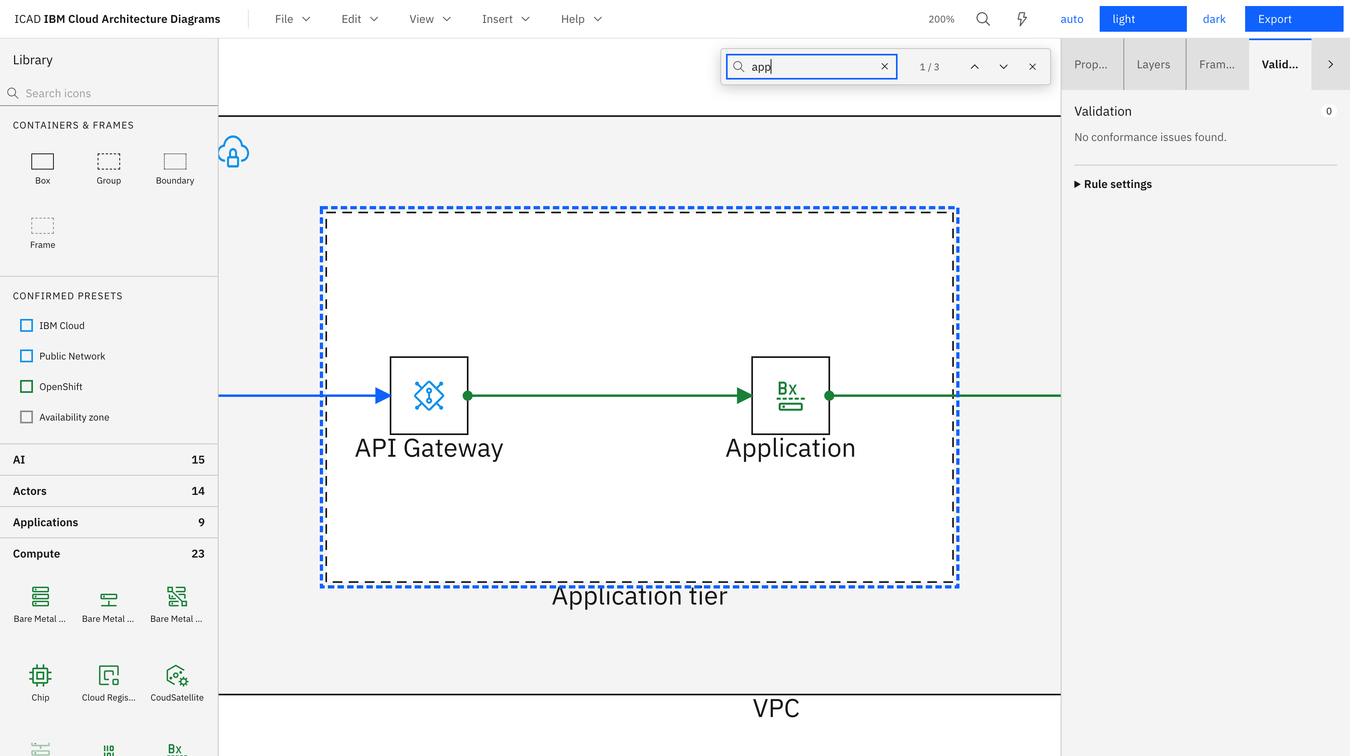
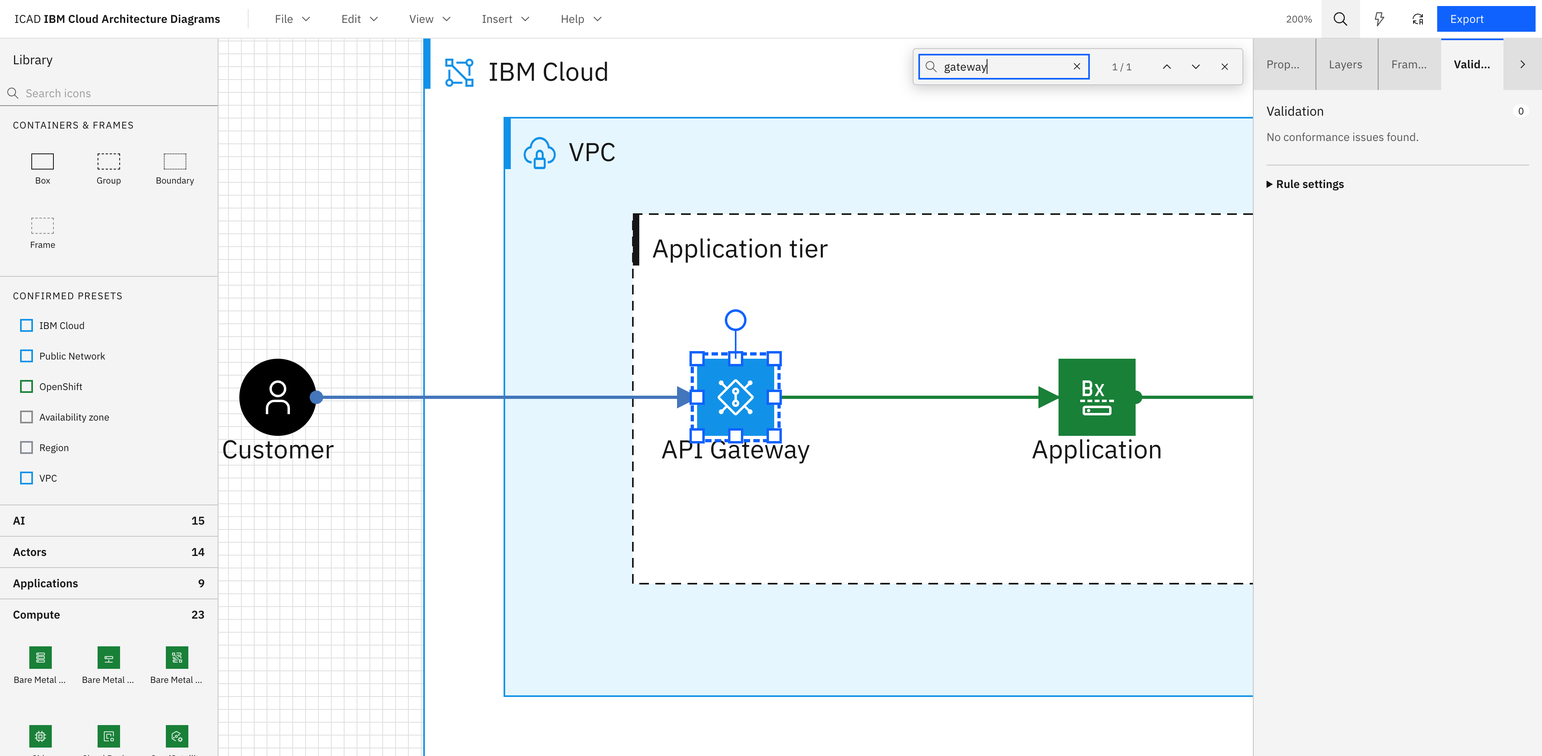
fix: desktop native export (missing fs write permission + CSP), refresh docs/screenshots
apps/desktop/src-tauri/capabilities/default.json was missing fs:allow-write-file
(only the text-file variant was granted), so saveExportNative()'s binary
writeFile() silently failed the Tauri IPC call for every native SVG/PNG export.
tauri.conf.json's CSP img-src also lacked blob:, which independently blocked
PNG export's intermediate <img> load from a blob: object URL. Neither surfaced
in tests since both are Tauri runtime permission/CSP checks a JS-level mock
can't exercise.

Also brings docs current with M15-M21, which had drifted since the last
doc/screenshot pass (2026-07-24, before M15-M20 and M21 shipped):
- docs/09-roadmap.md: records the export-bug fix under M11, and adds the
  M21 (licensing + release packaging) section that was never written up.
- docs/guide/02-web-editor.md: Limitations still claimed no drag/resize/
  rotate, no marquee/align/z-order, and no connector-waypoint editing, all
  of which shipped in M15-M20. Rewrote Canvas interactions, Connectors, and
  Properties to match, and fixed a stale Zone/Boundary semantics row (D24
  narrowed Zone to AZ/on-prem only).
- docs/guide/01-getting-started.md: "VS Code is dev-only" / "desktop is
  build-from-source only" predated the M21 Releases channel.
- Replaced the screenshot set (captured live from the running app) and
  added one new shot for connector-editing; the old set predated M18-M20
  entirely and showed neither rotation, the color picker, lock/hide, nor
  connector editing.
[…]

diff --git a/docs/guide/02-web-editor.md b/docs/guide/02-web-editor.md
@@ -4,12 +4,12 @@ The full reference for `apps/web` — every element type, interaction, panel, an
 actually behave today. Screenshots below are the built-in **High-level / logical** template
 (light theme) at 100% zoom.
 
-![Populated canvas: Customer actor → API Gateway → Application (inside Application tier group, inside VPC box, inside IBM Cloud boundary) → Object storage](images/hero-canvas-overview.png)
+![Populated canvas: Customer actor → API Gateway → Application (inside Application tier group, inside VPC box, inside IBM Cloud box) → Object storage](images/hero-canvas-overview.png)
 
 ## Layout
 
 - **Top bar** — File / Edit / View / Insert / Help menus, a live zoom readout, Find, Command
-  palette, theme buttons (Auto/Light/Dark), and Export.
+  palette, a Theme menu (Auto/Light/Dark), and Export.
 - **Left — Library panel** — searchable IBM icon catalog, plus container primitives and confirmed
   presets.
 - **Center — Canvas** — the SVG diagram surface.
@@ -20,16 +20,16 @@ Library panel, and there's no ruler along the canvas edges.
 
 ## Elements and their IBM semantics
 
-| Element               | Border         | IBM semantic            | Meaning                                                                                                               |
-| --------------------- | -------------- | ----------------------- | --------------------------------------------------------------------------------------------------------------------- |
-| **Box**               | solid          | `deployedOn`            | A location something runs on (a VPC, a server, a cluster).                                                            |
-| **Group**             | dashed         | `deployedTo`            | A grouping of services/apps that share a deployment target.                                                           |
-| **Zone** ("Boundary") | dashed         | `boundary`              | A region, availability zone, VPC, subnet, or on-prem boundary. Set the kind in Properties.                            |
-| **Actor**             | rounded        | `actor`                 | A person or external role.                                                                                            |
-| **Icon** (`iconNode`) | —              | `node`                  | A single IBM Cloud service/component from the catalog.                                                                |
-| **Text**              | —              | —                       | A free-floating label.                                                                                                |
-| **Frame**             | dashed, titled | —                       | A named section used for Find, navigation, and presentation mode — not a diagram element with IBM meaning of its own. |
-| **Connector**         | —              | connection/relationship | See [Connectors](#connectors) below.                                                                                  |
+| Element               | Border         | IBM semantic            | Meaning                                                                                                                                                                                                                                                          |
+| --------------------- | -------------- | ----------------------- | ---------------------------------------------------------------------------------------------------------------------------------------------------------------------------------------------------------------------------------------------------------------- |
+| **Box**               | solid          | `deployedOn`            | A location something runs on (a VPC, a server, a cluster).                                                                                                                                                                                                       |
+| **Group**             | dashed         | `deployedTo`            | A grouping of services/apps that share a deployment target.                                                                                                                                                                                                      |
+| **Zone** ("Boundary") | dashed         | `boundary`              | An availability zone or on-premises boundary — the only two `ZoneKind`s; region/VPC/subnet render as **Box** instead ([D24](../00-decision-log.md#d24--regionvpcsubnet-are-box-only-availability-zoneon-prem-are-boundary--locked)). Set the kind in Properties. |
+| **Actor**             | rounded        | `actor`                 | A person or external role.                                                                                                                                                                                                                                       |
+| **Icon** (`iconNode`) | —              | `node`                  | A single IBM Cloud service/component from the catalog.                                                                                                                                                                                                           |
+| **Text**              | —              | —                       | A free-floating label.                                                                                                                                                                                                                                           |
+| **Frame**             | dashed, titled | —                       | A named section used for Find, navigation, and presentation mode — not a diagram element with IBM meaning of its own.                                                                                                                                            |
+| **Connector**         | —              | connection/relationship | See [Connectors](#connectors) below.                                                                                                                                                                                                                             |
 
 Boxes, Groups, Zones, and Frames are all **containers**: dropping or reparenting an element into
 one sets `parentId`, and moving or deleting the container cascades to everything inside it.
@@ -52,16 +52,40 @@ OpenShift, Availability zone).
 
 ## Canvas interactions
 
-- **Pan** — scroll wheel. **Zoom** — Ctrl/Cmd+scroll, or the Zoom in/out/Reset/Fit-to-content
-  commands in the View menu or command palette.
-- **Select** — click; Shift-click to add to selection; keyboard Enter/Shift+Enter on a focused
-  element.
-- **Move** — arrow keys nudge the selection by 1px (8px with Shift). There's no click-and-drag
-  repositioning; to set an exact position, type X/Y in the Properties tab.
+- **Pan** — scroll wheel, Space+drag, or middle-mouse-drag. **Zoom** — Ctrl/Cmd+scroll, or the Zoom
+  in/out/Reset/Fit-to-content commands in the View menu or command palette. A live grid and
+  alignment guides render while dragging, with a gesture readout (position/size/angle) near the
+  cursor.
+- **Select** — click (always resolves to the deepest element under the cursor); Alt+click to
+  select through to an occluded element underneath; Shift-click to add to selection; a
+  marquee-drag over empty canvas selects every fully-enclosed element; Ctrl/Cmd+A selects all;
+  keyboard Enter/Shift+Enter on a focused element. Right-click opens a context menu scoped to
+  whatever's under the cursor.
+- **Move** — drag with the mouse (Shift axis-locks to horizontal/vertical, Escape aborts and snaps
+  back, Alt-drag clones instead of moving), or arrow keys to nudge the selection by 1px (8px with
+  Shift). Dragging snaps live to the grid, sibling edges/centers, and a 16px container inset. To
+  set an exact position, type X/Y in the Properties tab instead.
+- **Resize** — drag any of 8 handles on a selected element (Shift locks aspect ratio, Alt resizes
+  from center); a container resize reflows its children and the 16px inset is enforced live.
+  Dragging an element onto/out of a container highlights it as a drop target and reparents on
+  release; a container also auto-grows to keep a dragged child inside it.
+- **Rotate** — drag the rotation handle above a selected element; Shift snaps to 15° increments.
+  Hit-testing, handles, ports, and bounds are all rotation-aware.
+- **Double-click** a container to drill into it (both the outer and inner bounding boxes stay
+  visible); Escape steps back out.
+- **Arrange** — Bring to front/forward, Send backward/to back (Ctrl/Cmd+]/[, Shift for
+  front/back), 6-way align (left/center/right/top/middle/bottom) and horizontal/vertical
+  distribute, and per-element Lock/Hide — all in the Edit menu, command palette, or (for
+  align/distribute) a toolbar that appears with a 2+ element selection.
+- **Clipboard** — Ctrl/Cmd+C/X/V copy, cut, and paste; Ctrl/Cmd+D duplicates; paste lands at the
+  cursor position. This is an in-app clipboard for diagram elements, not a copy-to-clipboard for
+  rendered PNG/SVG images (see [Export](#export)).
 - **Group / ungroup** — select 2+ elements and press Ctrl/Cmd+G (or use the Edit menu / command
   palette). This creates a new dashed Group sized to fit the selection plus a 16px pad, and
   reparents the selected elements into it. Ctrl/Cmd+Shift+G ungroups.
-- **Undo / redo** — Ctrl/Cmd+Z / Ctrl/Cmd+Shift+Z (or Ctrl/Cmd+Y), unlimited within a session.
+- **Undo / redo** — Ctrl/Cmd+Z / Ctrl/Cmd+Shift+Z (or Ctrl/Cmd+Y), unlimited within a session. Only
+  committed edits are undoable — in-flight drag/resize/rotate gestures aren't part of the undo
+  stack until released.
 - **Delete** — Delete/Backspace removes the selection and cascades to descendants and any
   connectors left dangling.
 
@@ -79,7 +103,13 @@ private) and **relationships** (dependency, aggregation, composition, implementa
 inheritance). A connection also takes a structured protocol annotation (Name, Encryption/Security,
 Port — rendered as `HTTPS TLS1.3:443`; a tunnel type reads "Encapsulation name" instead), and any
 connector can carry a short sequencing badge (e.g. "1", "2a") shown at its midpoint. Routing is
-orthogonal and automatic; there's no gesture for manually editing a connector's waypoints today.
+orthogonal and automatic by default, but a selected connector exposes diamond drag handles on every
+waypoint, a `+` handle at each segment's midpoint to insert a new one, and pink endpoint handles to
+retarget either end to a different port — auto-routing connectors re-route immediately around the
+edited path. A "Reset routing" button in the Properties tab drops any manual edits and returns to
+automatic routing.
+
+![Connector selected, showing waypoint drag handles, a midpoint insert handle, and an endpoint retarget handle on canvas alongside the connector's type/direction/protocol properties](images/connector-editing.png)
 
 ## Templates
 
@@ -93,16 +123,18 @@ starts clean.
 The right-hand Inspector has four tabs.
 
 **Properties** — edit the selection. Every element has a Label field; non-connector elements also
-get typed X/Y/W/H fields and a Parent container selector; Zones get a boundary-kind selector;
-Frames get a presentation-order field; Connectors get type/direction/flow-color selectors. Fill,
-stroke, and rotation aren't editable here — style comes from presets and linter quick-fixes, and
-rotation isn't implemented in the UI.
+get typed X/Y/W/H and Rotation (0–359°) fields and a Parent container selector; Zones get a
+boundary-kind selector; Frames get a presentation-order field; Connectors get
+type/direction/flow-color selectors. Stroke and fill are set from the nine IBM palette swatches or
+a free-form custom color picker; a Locked/Hidden pair of checkboxes mirrors the same toggles in
+Layers.
 
-![Properties tab showing the selected "Application" icon: label, X/Y/W/H, parent container, and read-only IBM catalog reference](images/properties-tab.png)
+![Properties tab showing the selected "Application" icon: label, X/Y/W/H, a rotation field, parent container, IBM catalog reference, IBM palette stroke/fill swatches with a custom color picker, and Locked/Hidden checkboxes](images/properties-tab.png)
 
-**Layers** — the full containment tree, click any node to select it on canvas.
+**Layers** — the full containment tree in descending z-order, click any node to select it on
+canvas; each row also has its own Lock and Hide toggle.
 
-![Layers tab showing the nested tree: Frame → Boundary → Box → Group → Icons, plus the Actor and three Connectors](images/layers-tab.png)
+![Layers tab showing the nested tree in descending z-order — Frame → Box → Box → Group → Icons, plus the Actor and three Connectors — with per-row lock/hide toggle buttons](images/layers-tab.png)
 
 **Frames** — lists frames in presentation order; a **Present** button steps through them
 (PageUp/PageDown or arrow keys, Escape to exit) — useful for reviews.
@@ -129,11 +161,11 @@ is allowed to block export.
 (`i / N`); Next/Previous step through them and the viewport jumps to each one, including jumping
 straight to a section frame.
 
-![Find bar with "app" typed in, showing 1 of 3 matches and the viewport zoomed to the matching "Application tier" group](images/find-bar-match.png)
+![Find bar with "gateway" typed in, showing 1 of 1 match and the viewport zoomed to the matching "API Gateway" icon](images/find-bar-match.png)
 
 ## Themes
 
-Auto / Light / Dark, set from the top bar, the View menu, or the command palette:
+Auto / Light / Dark, set from the Theme menu in the top bar, the View menu, or the command palette:
 
 ![Command palette open, listing File/View/Insert commands including the three theme options](images/command-palette.png)
 
@@ -168,14 +200,18 @@ details.
 
 ## Limitations
 
-The editor is click-and-type first, not a full drag/direct-manipulation canvas yet:
+Direct manipulation (drag-to-move/resize/rotate, marquee select, align/distribute/z-order, grid
+and alignment-guide snapping, connector-waypoint editing, clipboard copy/paste/duplicate) is fully
+built — see [Canvas interactions](#canvas-interactions) and [Connectors](#connectors) above. What's
+still missing:
 
-- **No drag-to-move, resize, or rotate.** Position and size are set via typed Properties fields;
-  the schema has a `rotation` field but nothing renders or exposes it.
-- **No marquee/rubber-band selection and no Ctrl/Cmd+select-all.** Multi-select is Shift-click
-  only.
-- **No align, distribute, or z-order commands.**
-- **No grid or alignment-guide snapping.** Only connector ports snap.
-- **No manual connector-waypoint editing** — routing is fully automatic.
-- **No clipboard copy** (no copy-to-clipboard for PNG/SVG).
-- **No native drag-and-drop icon placement** — click-to-arm-then-click, or keyboard placement.
+- **No native drag-and-drop icon placement from the Library panel** — click an icon to arm it,
+  then click the canvas (or press Enter/Space to place at the viewport center); dragging an icon
+  straight from the panel onto the canvas isn't supported.
+- **No copy-to-clipboard for a rendered PNG/SVG image.** Export always goes to Save/Save-As (or a
+  browser download); there's no button that puts the exported image bytes on the OS clipboard. (The
+  in-app element clipboard — Ctrl/Cmd+C/X/V/D for diagram elements — is a separate, already-built
+  feature; see [Canvas interactions](#canvas-interactions).)
+- **No viewport virtualization.** Every element stays in the live DOM regardless of diagram size;
+  a benchmark found no real rendering/hit-test/lint problem up to 2,000 elements and connectors, so
+  this hasn't been built, but a genuinely huge diagram beyond that size is untested.

diff --git a/docs/09-roadmap.md b/docs/09-roadmap.md
@@ -596,11 +596,26 @@ Same "core runs in the webview, the host handles file I/O" split as
    — a known limitation of headless macOS (unrelated to anything in this change; unconfirmed
    whether it reproduces on a real CI runner or a human's own machine, both of which typically have
    one).
+10. **Two real defects found by actually using the shipped `v0.1.0` desktop build**, neither caught
+    by `tauri.test.ts`'s mocked `writeFile`/`writeTextFile` calls because both are Tauri IPC
+    permission/CSP checks that only apply at runtime, below what a JS-level mock exercises:
+    (a) `capabilities/default.json` granted `fs:allow-write-text-file` (for `.icad` save) but never
+    `fs:allow-write-file` — the binary-write permission `saveExportNative()` actually calls — so
+    every native export, SVG included, silently failed the IPC call; (b) `app.security.csp`'s
+    `img-src` allowed `'self' data:` but not `blob:`, and `exportPng()`
+    ([`packages/core/src/io/export.ts`](../packages/core/src/io/export.ts)) rasterizes by loading
+    the intermediate SVG into an `<img>` from a `URL.createObjectURL()` blob: URL — blocked by the
+    webview's CSP before PNG export ever reached the (now-fixed) permission gap. Neither failure
+    threw anywhere `handleExportSvg`/`handleExportPng` in `apps/web/src/App.tsx` could catch it, so
+    both looked identical from the UI: the Export dialog just sat there. Fixed by adding a
+    `fs:allow-write-file` grant (same `"path": "**"` scope as the existing text-write permission)
+    and `blob:` to `img-src`. `.dmg` packaging (previously blocked in this sandbox, see above) later
+    completed successfully via a real macOS CI runner as part of the
+    [M21](#m21--licensing--release-packaging) release workflow —
+    `icad-desktop-v0.1.0-macos-arm64.dmg` shipped in the `v0.1.0` GitHub Release.
 
 **Not yet done:**
 
-- `.dmg` packaging — confirmed hanging in this specific sandbox (see above), not yet retried
-  anywhere with a real WindowServer session.
 - Code signing/notarization (an IBM org/certificate dependency, not a code task — same posture as
   [D17](00-decision-log.md#d17--official--ibm-internal-tool--locked)'s sign-off gate) and the actual
   interactive pass: open by double-click, Open/Save/Save-As, native file association end to end,
@@ -975,6 +990,80 @@ IBM palette swatches + free color picker, and two new linter rules (`non-zero-ro
 own export; an architect builds a nested multi-zone diagram end to end using only the mouse, and
 again using only the keyboard, with drag, resize, marquee, clipboard, alignment, and connector
 editing throughout; every new capability is reachable from the MCP surface; AA re-verified.
+
+## v5 — Release channel
+
+Get a downloadable build of the engine into people's hands — a preview channel, distinct from the
+[D17](00-decision-log.md#d17--official--ibm-internal-tool--locked)-gated official IBM release.
+
+#### M21 — Licensing + release packaging
+
+✅ **Done** — all five sub-milestones landed, including a real end-to-end run (a `v0.1.0` tag
+actually pushed and the workflow actually watched) that found and fixed three genuine CI-only
+bugs no local testing or `actionlint` could have caught.
+
+1. ✅ **M21.1 — Licensing + VS Code packaging readiness.** Apache-2.0 `LICENSE`, set on every
+   distributed package (core, ui-web, mcp, web, vscode, desktop) — `catalog-build` and the private
+   root stay `UNLICENSED` since neither ships. A `NOTICE` carves the bundled IBM icon SVGs out of
+   that license, since upstream IBM-Cloud/architecture-icons has no detected license of its own.
+   `apps/vscode/README.md` added, required by `vsce` for M21.3's packaging step.
+2. ✅ **M21.2 — Standalone MCP server release tarball.** `packages/mcp/scripts/package-release.mjs`
+   assembles `icad-mcp-vX.Y.Z.tar.gz` via `pnpm deploy --prod --legacy` — a real, self-contained
+   `node_modules` rather than a bundled single file (an esbuild bundle was tried first and abandoned:
+   jsdom isn't meant to be bundled, and hit three separate failures in a row) — plus a sibling copy
+   of `packages/catalog` replicating the relative-path layout `catalog.ts`'s lookup already expects.
+   Verified by extracting the tarball outside the repo and round-tripping a real MCP `initialize`
+   request against the deployed server.
+3. ✅ **M21.3 — VS Code `.vsix` packaging.** `@vscode/vsce` + a `package` script
+   (`vsce package --no-dependencies`, since the host bundle already inlines everything via esbuild),
+   an icon rasterized from the desktop app icon, a repo-root `LICENSE` copy (`vsce` looks locally,
+   not up the tree), and a `.vscodeignore` trimming the `.vsix` to just `dist/` + metadata. Verified
+   end to end: installed the packaged `.vsix` into a real VS Code via
+   `code --install-extension`, opened a generated sample `.icad` file, and confirmed the custom
+   diagram editor rendered it (not raw JSON).
+4. ✅ **M21.4 — Desktop release packaging scripts.** `apps/desktop/scripts/apply-version.mjs` stamps
+   the release version into `tauri.conf.json` right before `tauri build` (ephemeral, never
+   committed); `collect-bundle.mjs` locates whatever `tauri build` just produced (Tauri's own output
+   filename varies by OS) and copies it to a stable `icad-desktop-vX.Y.Z-<platform-arch>.<ext>` name.
+   The macOS/`.dmg` path was verified directly — a real `tauri build`, the resulting `.dmg` mounted,
+   the `.app` launched from it — closing out M11's previously-deferred "DMG packaging, needs a real
+   machine" tail.
+5. ✅ **M21.5 — Unified release workflow.** `.github/workflows/release.yml` ties M21.1–M21.4
+   together: pushing a `vX.Y.Z` tag creates a draft GitHub Release (with a preview-build disclaimer
+   prepended to the auto-generated notes), then four parallel jobs build and upload web (zip), mcp
+   (tarball), vscode (vsix), and desktop (macOS/Windows/Linux matrix) artifacts to it. Nothing
+   auto-publishes — the draft is left for manual review. Also landed the README "Download" section
+   and the doc updates deferred from M21.1–M21.4.
+
+**Found and fixed by the real end-to-end run** (pushing an actual `v0.1.0` tag, not just local
+testing/`actionlint`) — the first draft was deleted (`gh release delete --cleanup-tag`) once these
+were confirmed the only failures:
+
+- `build-desktop` passed `--bundles dmg` after a bare `--` in `tauri build -- --bundles dmg`, which
+  Tauri only treats as a `cargo build` passthrough, not its own flag — cargo rejected it outright.
+  Fixed by dropping the `--`.
+- `build-mcp`'s `package-release.mjs` ran `pnpm deploy` with `stdio: "inherit"`, so its own
+  `[WARN]`-prefixed progress output leaked into the workflow's `OUT="$(node ...)"` capture; bash read
+  the stray `[WARN]` text as a glob bracket expression and aborted with "no matches found". Fixed by
+  redirecting the child's stdout to the parent's stderr and having the workflow compute the
+  (deterministic) output filename directly instead of capturing it.
+- A second real-CI run then surfaced a genuine cross-platform bug plain local development could
+  never catch (this app had only ever been built on macOS until this run): `tauri::RunEvent::Opened`
+  is only defined in the tauri crate's macOS build of `RunEvent` — referencing it unconditionally in
+  `apps/desktop/src-tauri/src/lib.rs` is a hard compile error on Windows/Linux. Fixed by moving the
+  `if let` into a `match` with a `#[cfg(target_os = "macos")]`-gated arm and a `_ => {}` catch-all.
+- Separately (an M20 gap `ci.yml` caught on the same push, not an M21 regression): the MCP server's
+  `server.test.ts` had a hardcoded tool-name list that was never updated when `element_rotate`
+  shipped as a real tool — fixed by adding it to the expected list.
+- Later, actually using the shipped `v0.1.0` desktop build surfaced a fourth real defect (native
+  export silently doing nothing) — see [M11 item 10](#m11--appsdesktop-tauri-shell).
+
+`v0.1.0` is live: [GitHub Releases](https://github.com/iChintanSoni/ibm-cloud-architecture-diagram/releases/tag/v0.1.0),
+with web/mcp/vscode/desktop (macOS/Windows/Linux) artifacts attached.
+
+**Done when:** a tagged push produces a draft GitHub Release carrying working web, MCP, VS Code, and
+desktop artifacts for all three desktop platforms, unattended (✅ — confirmed via a real tag push,
+not just workflow linting).
 
 ## Explicitly deferred / revisit later
 

diff --git a/README.md b/README.md
@@ -11,7 +11,7 @@ file, and can be driven by AI agents through an MCP server and Agent Skills.
 > The [Releases page](../../releases) below is a separate, unsigned **preview** channel, not that
 > sanctioned release.
 
-![The web editor showing a populated diagram: a Customer actor connected through an API Gateway to an Application inside an Application tier group, inside a VPC box, inside an IBM Cloud boundary, flowing to Object storage](docs/guide/images/hero-canvas-overview.png)
+![The web editor showing a populated diagram: a Customer actor connected through an API Gateway to an Application inside an Application tier group, inside a VPC box, inside an IBM Cloud box, flowing to Object storage](docs/guide/images/hero-canvas-overview.png)
 
 ## Download
 
@@ -60,6 +60,9 @@ ICAD fixes all four. See [Vision & Scope](docs/01-vision-and-scope.md).
 
 - **Semantic elements & containers** — Box (`deployedOn`), Group (`deployedTo`), Zone/Boundary,
   Actor, Icon, Text, Frame, with move-with/cascade-delete containment and 11 IBM connector types.
+- **Direct manipulation on the real canvas** — drag-to-move, 8-handle resize, rotate with 15°
+  snapping, marquee select, align/distribute, z-order, lock/hide, and a full clipboard, plus
+  manual connector-waypoint editing — every gesture is undoable and reaches the MCP surface too.
 - **242 bundled IBM icons** across 11 categories — searchable, offline, no network dependency.
 - **Advisory linter** — 16 rules, one-click quick-fixes, a configurable export gate.
 - **Four starting templates** — Blank, System context, High-level, Detailed — all pre-built and
@@ -76,6 +79,26 @@ ICAD fixes all four. See [Vision & Scope](docs/01-vision-and-scope.md).
 **Known limitations today:** VS Code and desktop are unsigned preview builds, not yet on the VS
 Code Marketplace or signed/notarized. MCP export is SVG-only. Full detail in each guide doc's own
 Limitations section, linked above.
+
+## A closer look
+
+<table>
+<tr>
+<td width="33%"><a href="docs/guide/02-web-editor.md#placing-icons"><img src="docs/guide/images/library-panel-search.png" width="100%"></a><br><sub><b>Library panel</b> — searchable, offline IBM icon catalog</sub></td>
+<td width="33%"><a href="docs/guide/02-web-editor.md#properties-layers-frames-validation"><img src="docs/guide/images/properties-tab.png" width="100%"></a><br><sub><b>Properties</b> — rotation, IBM palette + custom color picker, lock/hide</sub></td>
+<td width="33%"><a href="docs/guide/02-web-editor.md#connectors"><img src="docs/guide/images/connector-editing.png" width="100%"></a><br><sub><b>Connector editing</b> — drag waypoints, retarget endpoints, reset routing</sub></td>
+</tr>
+<tr>
+<td><a href="docs/guide/02-web-editor.md#properties-layers-frames-validation"><img src="docs/guide/images/layers-tab.png" width="100%"></a><br><sub><b>Layers</b> — full containment tree, per-row lock/hide</sub></td>
+<td><a href="docs/guide/02-web-editor.md#the-linter"><img src="docs/guide/images/validation-tab.png" width="100%"></a><br><sub><b>Linter</b> — advisory diagnostics with one-click quick-fixes</sub></td>
+<td><a href="docs/guide/02-web-editor.md#find-on-canvas"><img src="docs/guide/images/find-bar-match.png" width="100%"></a><br><sub><b>Find on canvas</b> — jumps the viewport to each match</sub></td>
+</tr>
+<tr>
+<td><a href="docs/guide/02-web-editor.md#command-palette"><img src="docs/guide/images/command-palette.png" width="100%"></a><br><sub><b>Command palette</b> — every action, one search box</sub></td>
+<td><a href="docs/guide/01-getting-started.md#your-first-diagram"><img src="docs/guide/images/new-diagram-dialog.png" width="100%"></a><br><sub><b>Templates</b> — four pre-built, spec-conformant starting points</sub></td>
+<td><a href="docs/guide/02-web-editor.md#export"><img src="docs/guide/images/export-modal.png" width="100%"></a><br><sub><b>Export</b> — SVG (re-editable) or PNG, with a conformance summary</sub></td>
+</tr>
+</table>
 
 ## Documentation
 

diff --git a/docs/guide/01-getting-started.md b/docs/guide/01-getting-started.md
@@ -1,8 +1,9 @@
 # Getting started
 
 This walks through installing ICAD from source and creating your first diagram in the web
-editor. There's no hosted instance yet — every surface (web, VS Code, desktop, the MCP agent
-server) runs from a local clone of this repository.
+editor. There's no hosted instance yet, so the web app itself always runs from a local clone (or
+its static-build zip); VS Code, desktop, and the MCP server can instead use a downloadable preview
+build — see [Other ways to run ICAD](#other-ways-to-run-icad) below.
 
 ## Prerequisites
 
@@ -42,7 +43,7 @@ Templates aren't blank scaffolding — they're pre-built, spec-conformant diagra
 containment, correct connector types, zero linter warnings) that you edit into your own diagram
 rather than build up from nothing. Here's the High-level template right after creation:
 
-![Populated canvas showing a Customer actor connected through an API Gateway, an Application box inside an Application tier group, inside a VPC box, inside an IBM Cloud boundary, to Object storage](images/hero-canvas-overview.png)
+![Populated canvas showing a Customer actor connected through an API Gateway, an Application box inside an Application tier group, inside a VPC box, inside an IBM Cloud box, to Object storage](images/hero-canvas-overview.png)
 
 From here:
 
@@ -58,15 +59,22 @@ see **[The web editor](02-web-editor.md)**.
 
 ## Other ways to run ICAD
 
-- **VS Code extension** — edit `.icad` files inside VS Code. Currently a dev-only build (no
-  Marketplace listing yet). See [The VS Code extension](03-vscode-extension.md).
-- **Desktop app** — a native Tauri shell with real file associations and OS dialogs. Currently
-  build-from-source only (no signed installer yet). See [The desktop app](04-desktop-app.md).
+Preview builds of every surface — unsigned, not yet gated by IBM Design sign-off — are published
+to the [GitHub Releases page](https://github.com/iChintanSoni/ibm-cloud-architecture-diagram/releases)
+on tagged pushes, as an alternative to building from source:
+
+- **VS Code extension** — edit `.icad` files inside VS Code. Install the `.vsix` from Releases (no
+  Marketplace listing yet), or build from source. See [The VS Code extension](03-vscode-extension.md).
+- **Desktop app** — a native Tauri shell with real file associations and OS dialogs. Download the
+  macOS/Windows/Linux installer from Releases (unsigned — expect a Gatekeeper/SmartScreen warning),
+  or build from source. See [The desktop app](04-desktop-app.md).
 - **AI agents / MCP** — point an MCP-capable agent at `packages/mcp` to author diagrams
-  programmatically. See [AI agents & MCP](05-ai-agents-mcp.md).
+  programmatically, or download the standalone server tarball from Releases. See
+  [AI agents & MCP](05-ai-agents-mcp.md).
 
 ## Limitations
 
-- No hosted/deployed instance — every surface runs from a local clone today.
+- No hosted/deployed web instance — the web app itself still runs from a local clone or its own
+  static-build zip (also on Releases), not a URL you can just visit.
 - First launch (with no autosaved draft) always opens the New Diagram dialog; there's no way to
   land directly on a blank canvas without it.
